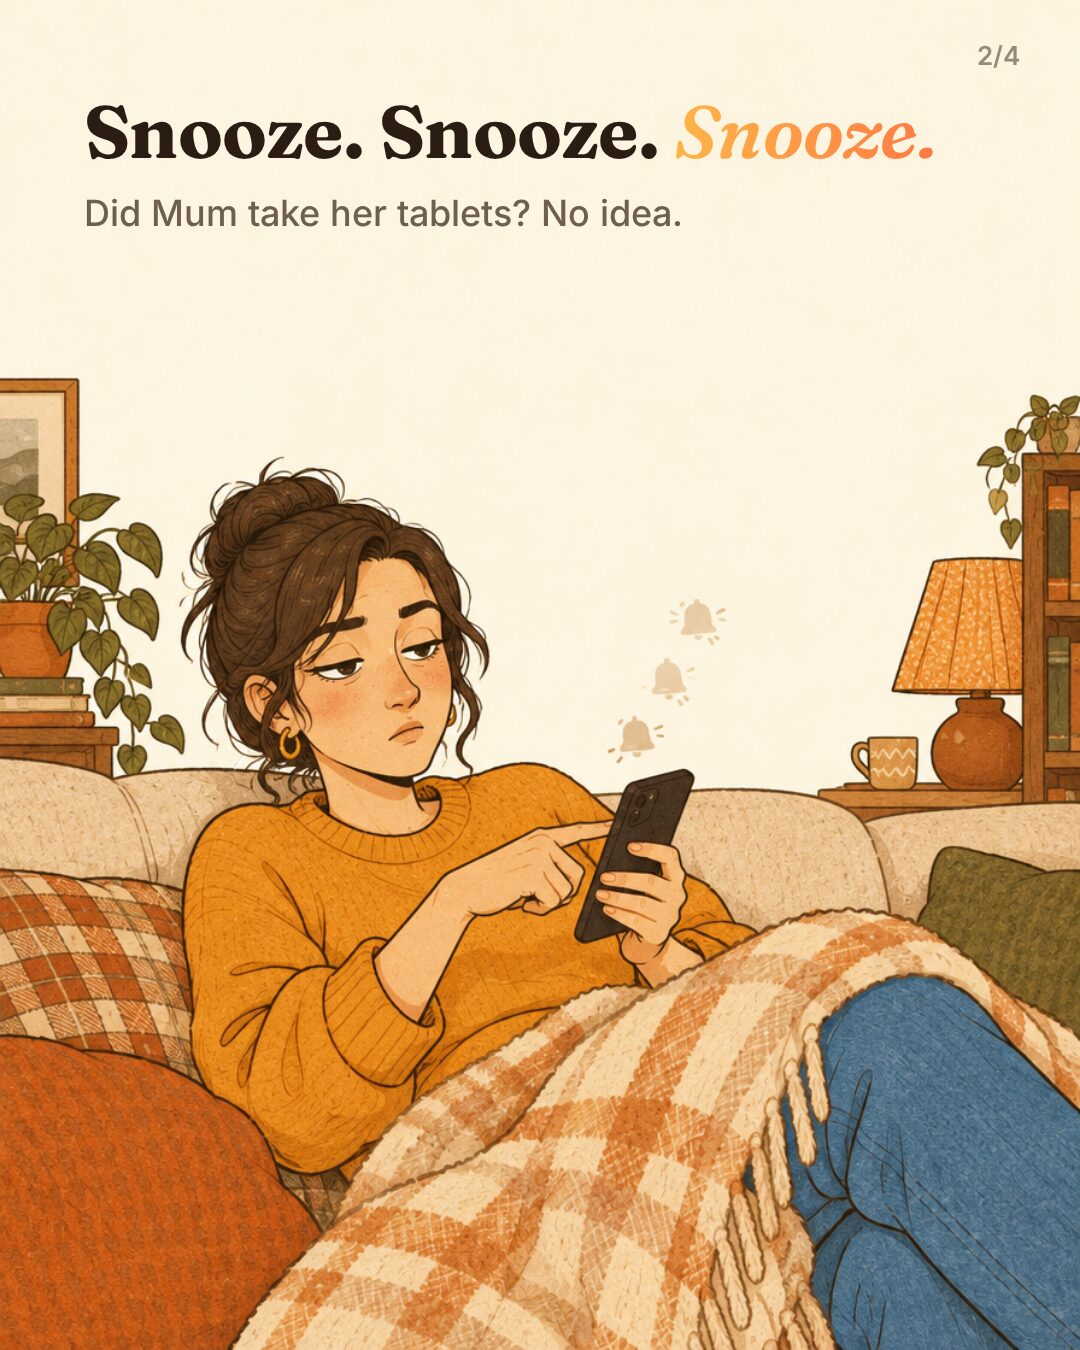
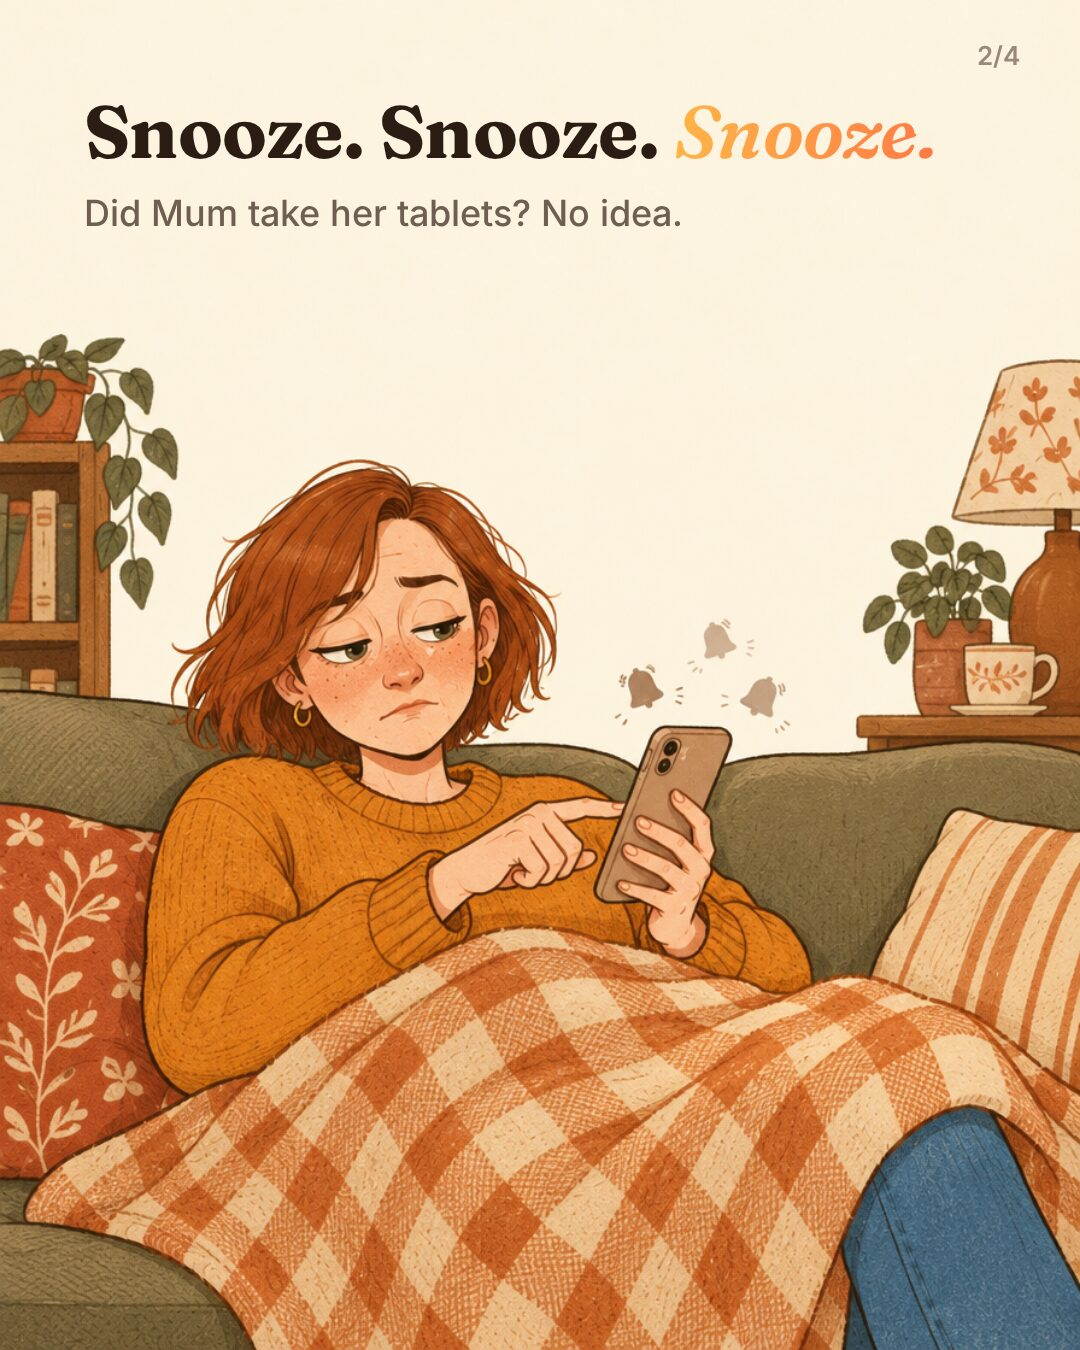
Emily v2 (ginger bob); comic regenerated; comic process
Claude-Session: https://claude.ai/code/session_019ztv4DbB6iZxgJYrBK5yr6

diff --git a/CHARACTERS.md b/CHARACTERS.md
@@ -22,7 +22,7 @@ Read this before making any comic, illustrated post or video with the I'm OK cas
 
 | Character | Look (keep identical every time) | Personality | Running joke | Never |
 |---|---|---|---|---|
-| **Emily** | Late 30s, shoulder-length dark brown hair, usually in a loose bun, mustard-orange jumper (brand orange), jeans, small gold hoops | Kind, busy, slightly late, worries about her parents | Has 47 phone alarms, all called IMPORTANT | Shown as a nag or a bad daughter |
+| **Emily** | Late 30s, short copper-ginger hair in a choppy chin-length bob with a side parting, freckles, mustard-orange jumper (brand orange), jeans, white trainers, small gold hoops | Kind, busy, slightly late, worries about her parents | Has 47 phone alarms, all called IMPORTANT | Shown as a nag or a bad daughter |
 | **Mum** | Early 70s, short silver bob, red-framed glasses on a beaded chain, teal cardigan, pearl earrings | Sharp, independent, funny, proud | "I know, I know" to every reminder, then taps Done with a flourish | Confused, frail, or the butt of the joke |
 | **Dad** | Mid 70s, bald on top with white sides, white moustache, flat cap outdoors, green knitted vest over a checked shirt | Cheerful, competitive, happiest in the garden | Treats the Done button as a game he intends to win | Forgetful as the punchline, or helpless with technology |
 | **Tick** | The I'm OK app icon come to life: a small rounded orange speech bubble with a white tick for a mouth-and-eyes face, tiny arms, no legs (floats) | Helpful, upbeat, a bit smug | Pops out of phones; does the nagging so Emily doesn't have to | Talks in long sentences (one short line at most) |
@@ -74,7 +74,7 @@ Avoid: 3D, photorealism, anime, big-limbed corporate flat style, text or letters
 Shared start: "Character turnaround and expression sheet, 2D flat illustration with soft paper grain, rounded medium-weight warm dark brown (#3A2A1E) outlines, natural adult proportions, flat brand colours (cream #FFF7EE background, sand #F3E6D6, orange #FF8A3D), left: four consistent full-body views in a row (front, three-quarter, side, back), right: three head-and-shoulders expressions (happy, unimpressed, surprised), identical original character in every view, plain cream seamless background, professional model sheet presentation,"
 Shared end: "no text, no letters, no logos, no watermark, no frame borders, no other characters, no props, not 3D, not photorealistic, not anime, no big-limbed corporate flat style, original character not resembling any real person or existing character."
 
-- **Emily:** "woman in her late thirties, warm light-olive skin, oval face, shoulder-length dark brown hair in a loose messy bun with a few strands loose, small gold hoop earrings, mustard-orange chunky knit jumper, mid-blue straight jeans, white trainers, slim build, kind tired eyes with a hint of humour,"
+- **Emily:** "woman in her late thirties, fair skin with a light dusting of freckles, short copper-ginger hair in a choppy chin-length bob with a side parting and a few messy strands, no bun, small gold hoop earrings, mustard-orange chunky knit jumper, mid-blue straight jeans, white trainers, slim build, kind tired eyes with a hint of humour,"
 - **Mum:** "woman in her early seventies, fair skin with soft smile lines, short neat silver bob, red-framed glasses on a beaded chain, small pearl earrings, teal cardigan over a cream blouse, navy trousers, comfortable brown loafers, upright confident posture, sharp amused expression,"
 - **Dad:** "man in his mid seventies, ruddy fair skin, bald on top with short white hair at the sides, full white moustache, green knitted sleeveless vest over a blue-and-white checked shirt, brown corduroy trousers, sturdy brown shoes, flat tweed cap held in one hand, stocky build, cheerful competitive grin,"
 - **Tick:** "small friendly mascot shaped like a rounded orange speech bubble (#FF8A3D to #FFB347 soft gradient) with a tail at the bottom left, a simple white tick shape forming its smile, two small dot eyes, tiny stubby arms, no legs, floating slightly above the ground with a soft shadow, about the size of a hand, upbeat and slightly smug,"
@@ -83,7 +83,14 @@ Generate each sheet, check it against the table above, save the chosen one as `c
 
 ## Approved reference sheets (12 Oct 2026)
 Previews are in `characters/` (emily-sheet.jpg, mum-sheet.jpg, dad-sheet.jpg, tick-sheet.jpg). Full-size originals are in Higgsfield; pass these job IDs as reference images (role image_references, model gpt_image_2_5) in every scene:
-- Emily: d060224e-5403-43d4-80a9-57685796433a
+- Emily: 4df0202f-42b7-4cac-8c10-5e5685980d6c (ginger bob, approved 12 Oct; the earlier dark-haired version is retired)
 - Mum: d21f2e51-46db-4e17-b25a-4922d04a35d0
 - Dad: a604a7be-b495-4d50-bd4f-37691cf57644
 - Tick: 72649bd3-df1c-4a72-b662-d26cf1bab67a
+
+## How to make a comic (the process used for the first one)
+1. Write the 4 slides: a caption per slide (heading with one gradient phrase, optional sub line), any speech bubble, and the WhatsApp bubble for the payoff.
+2. Generate each panel with gpt_image_2_5, aspect 4:5, quality medium, passing the reference sheet job IDs above, using the master prompt plus "Keep the top quarter of the image as plain empty cream space for a caption".
+3. Check every panel against the sheets; regenerate any that drifted.
+4. Add the text with HTML (Fraunces 700 headings, gradient italic phrase, Inter sub lines, white speech bubbles with a brown outline, house WhatsApp bubble), 1080x1350, slide counter top right, the last slide with the I'm OK logo and "Start free at getimok.app".
+5. Save as posts/<date>/comic-N-name.jpg, push, and schedule the carousel in Metricool (Instagram and Facebook) from the raw GitHub URLs. Mark Instagram isAiGenerated true.
